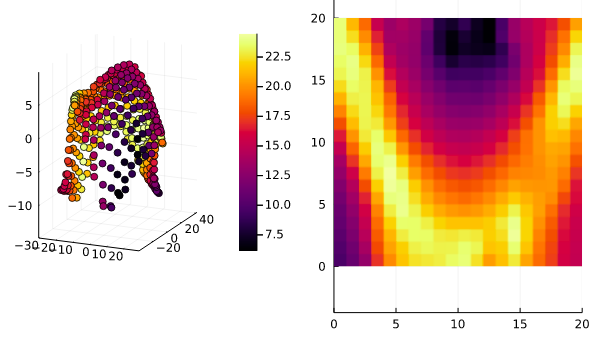
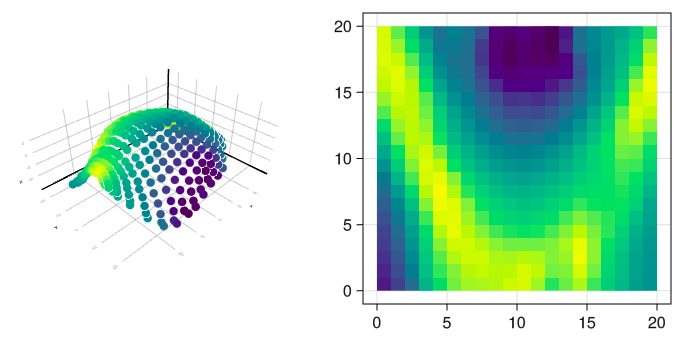
Makie recipe: final adjusts and README update

diff --git a/README.md b/README.md
@@ -85,7 +85,7 @@ G = CartesianGrid(20,20)
 P = EstimationProblem(S, G, :P)
 
 # plot reference scenario and samples extracted for further estimations
-fig0 = Mke.Figure()
+fig0 = Mke.Figure(resolution=(700, 350))
 Mke.plot(fig0[1,1],D.geometry,color=D.P)
 Mke.plot(fig0[1,2],G,showfacets=true,color=:white)
 Mke.plot!(fig0[1,2],S.geometry,color=S.P)
@@ -100,7 +100,8 @@ Mke.current_figure()
 # get local anisotropies using gradients of a 8x8 radius window
 rawlpars = localanisotropies(Gradients, D, :P, 8)
 Mke.plot(D.geometry, color=D.P, alpha=0.6)
-## Mke.plot!(rawlpars,D) ## need to migrate to Makie - soon 
+Mke.plot!(rawlpars,D.geometry)
+Mke.current_figure()
 ```
 
 <p align="center">
@@ -120,7 +121,8 @@ lparsx = reference_magnitude(lpars, :X)
 lparsy = reference_magnitude(lpars, :Y)
 
 Mke.plot(D.geometry, color=D.P, alpha=0.6)
-## Mke.plot!(lpars,D) ## need to migrate to Makie - soon 
+Mke.plot!(lpars,D.geometry)
+Mke.current_figure()
 ```
 
 <p align="center">
@@ -128,7 +130,7 @@ Mke.plot(D.geometry, color=D.P, alpha=0.6)
 </p>
 
 ```julia
-# for 3D or custom visualizations, it's possible to export it to VTK
+# for custom visualizations, it's possible to export it to VTK
 to_vtk("ellipses", D, lpars)
 # below the file "ellipses.vtu" loaded in Paraview using TensorGlyph (disable extract eigenvalues)
 ```
@@ -184,7 +186,7 @@ Pd1 = EstimationProblem(Sd1, Dd1, :P)
 s3 = solve(Pd1, KrigingSolver(:P => (variogram=γ1,)))
 
 # plot
-fig3 = Mke.Figure()
+fig3 = Mke.Figure(resolution=(700, 350))
 Mke.plot(fig3[1,1],to_3d(s3).geometry,color=s3.P)
 Mke.plot(fig3[1,2],G,color=s3.P)
 Mke.current_figure()
@@ -206,7 +208,7 @@ Pd2 = EstimationProblem(Sd2, Dd2, :P)
 s4 = solve(Pd2, KrigingSolver(:P => (variogram=γ2,)))
 
 # plot
-fig4 = Mke.Figure()
+fig4 = Mke.Figure(resolution=(700, 350))
 Mke.plot(fig4[1,1],to_3d(s4).geometry,color=s4.P)
 Mke.plot(fig4[1,2],G,color=s4.P)
 Mke.current_figure()
@@ -228,7 +230,7 @@ Pd3 = EstimationProblem(Sd3, Dd3, :P)
 s5 = solve(Pd3, KrigingSolver(:P => (variogram=γ3,)))
 
 # plot
-fig5 = Mke.Figure()
+fig5 = Mke.Figure(resolution=(700, 350))
 Mke.plot(fig5[1,1],to_3d(s5).geometry,color=s5.P)
 Mke.plot(fig5[1,2],G,color=s5.P)
 Mke.current_figure()
